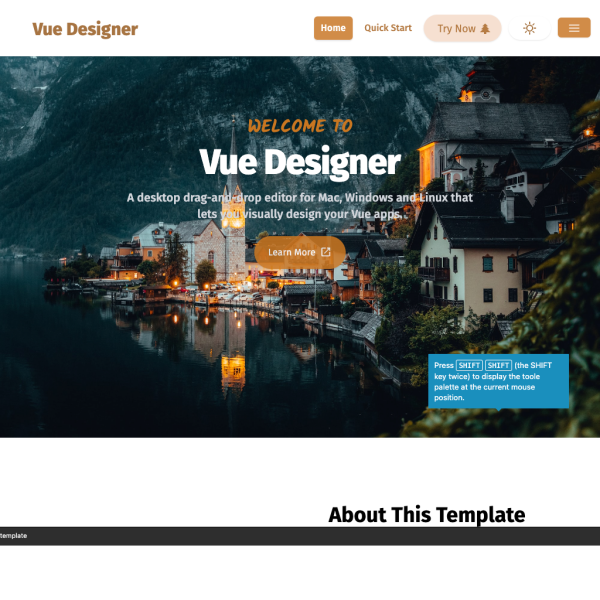
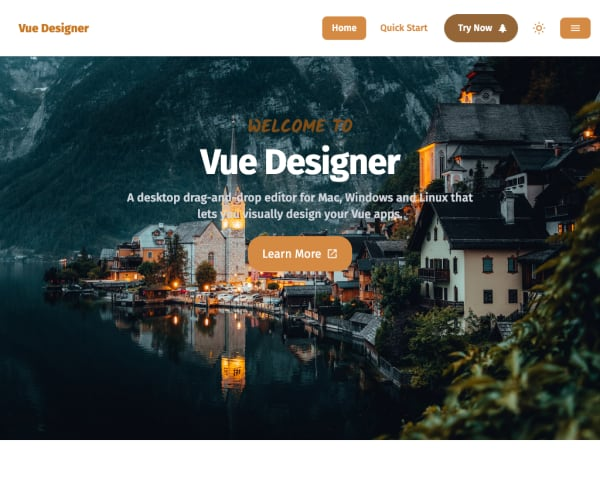
Minor refactors & theme updates

diff --git a/src/components/NavBar.vue b/src/components/NavBar.vue
@@ -25,14 +25,14 @@
             <NavBarDesktopTabs
               :navlinks="desktopNavTabs"
               :current-path="currentPath"
-              class="h-full"
+              class="hidden sm:flex sm:ml-6"
             />
           </div>
           <DarkModeSwitch />
           <div class="-mr-2 items-center relative">
             <NavBarMobileMenuButton v-if="mobileNavTabs.length" />
             <NavBarMobileMenu
-              class="hidden sm:block absolute right-0 mt-4"
+              class="hidden sm:flex sm:justify-end absolute right-0 mt-4"
               :navlinks="mobileNavTabs"
               :current-path="currentPath"
             />

diff --git a/src/pages/quick-start.vue b/src/pages/quick-start.vue
@@ -25,12 +25,11 @@
           <h6 class="mt-2">Github repo for this template</h6>
           <BaseButton
             size="xs"
-            class="ml-2 pg-primary-container-text"
-            color="gray"
+            class="ml-2"
+            color="secondary"
             to="https://github.com/pinegrow/pg-vue-tailwindcss"
             target="_blank"
-          >
-            <span>Click here</span>
+            ><span>Click here</span>
           </BaseButton>
         </div>
       </div>

diff --git a/src/components/NavBarDesktopTabs.vue b/src/components/NavBarDesktopTabs.vue
@@ -15,7 +15,7 @@
   })
 </script>
 <template>
-  <div class="h-full hidden items-center md:flex md:ml-6">
+  <div class="h-full items-center">
     <div class="flex h-full space-x-2">
       <BaseButton
         v-for="(navlink, index) in navlinks"
@@ -34,6 +34,7 @@
       to="https://pinegrow.com/vue-designer"
       size="xl"
       icon="i-mdi-pine-tree"
+      color="secondary"
       trailing
       ><span class="pl-2">Try Now</span>
     </BaseButton>

diff --git a/src/pages/subscribe.vue b/src/pages/subscribe.vue
@@ -43,9 +43,9 @@
                 />
                 <BaseButton
                   type="submit"
-                  class="ml-2 pg-primary-container-text"
+                  class="ml-2"
                   size="md"
-                  color="gray"
+                  color="secondary"
                 >
                   Sign Up
                 </BaseButton>

diff --git a/src/components/NavBarMobileMenu.vue b/src/components/NavBarMobileMenu.vue
@@ -17,7 +17,7 @@
   })
 </script>
 <template>
-  <div class="sm:flex sm:justify-end">
+  <div>
     <div
       v-if="isMobileMenuOpen"
       class="sm:min-w-[200px] rounded-lg shadow overflow-hidden pg-surface pg-on-surface-text px-4 py-5 sm:p-6"
